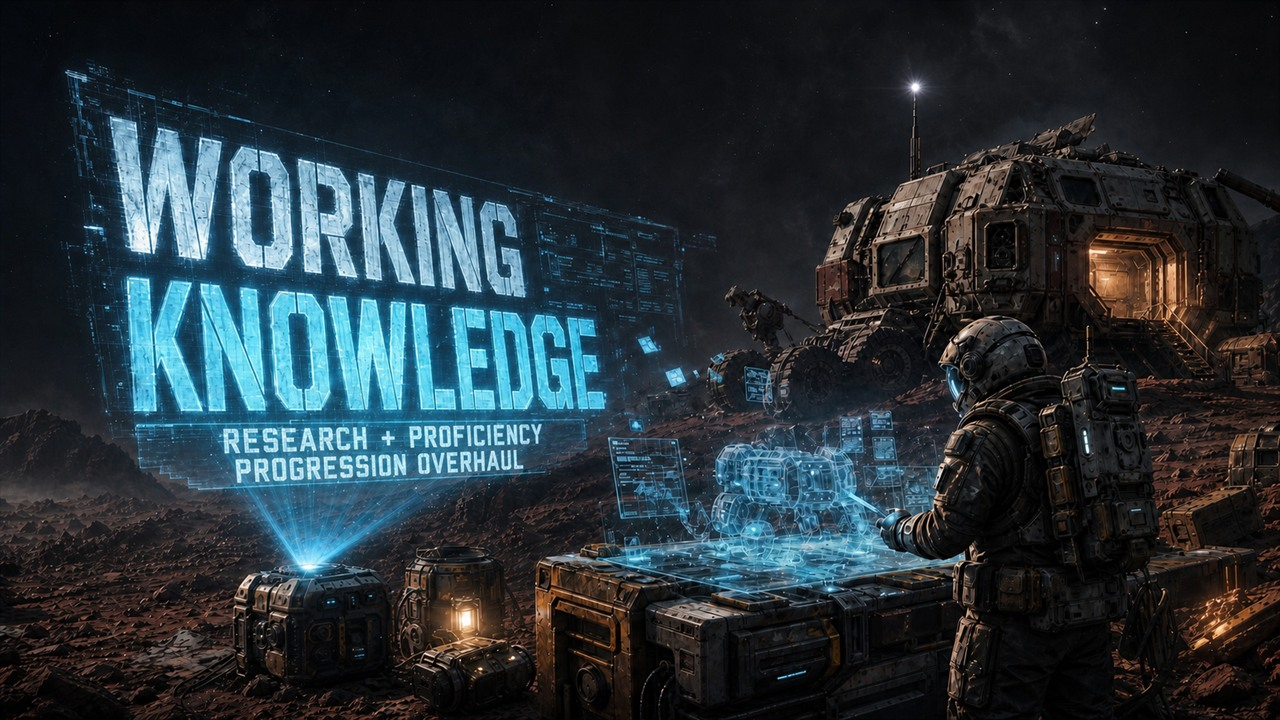
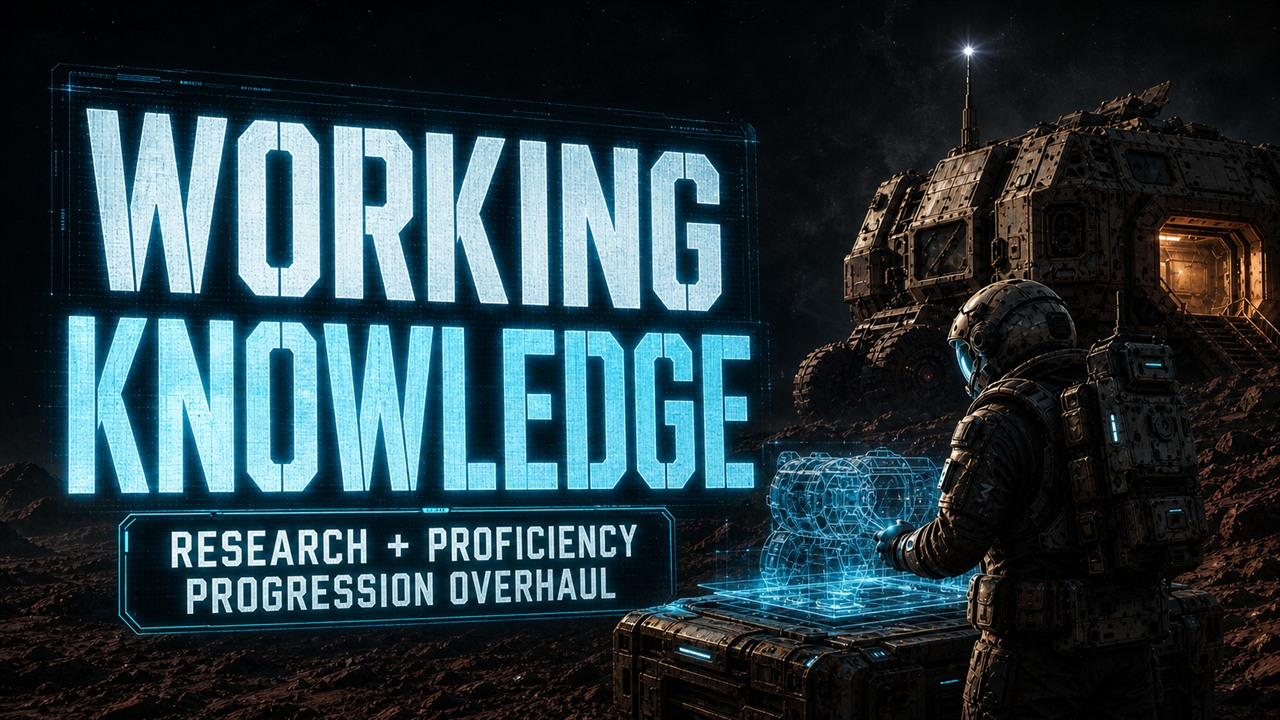
art: improve thumbnail card readability

diff --git a/docs/WorkingKnowledge/changelog.md b/docs/WorkingKnowledge/changelog.md
@@ -27,7 +27,7 @@ Kept complete vanilla variant sets in one schematic family. In particular, the S
 
 Regenerated vanilla research bindings, hidden unlockers, exact Data Schematics, the runtime catalog, block-variant overrides, radial-menu data, and balance audits from the current 1.210 game definitions.
 
-Replaced the Workshop thumbnail with cohesive field-engineering key art. The title is now an in-world holographic research projection instead of a flat text panel, with a compact integrated descriptor identifying the mod as a Research and Proficiency progression overhaul. The simpler composition is designed to remain recognizable at Workshop-card size.
+Replaced the Workshop thumbnail with cohesive field-engineering key art. The title is now an in-world holographic research projection instead of a flat text panel, with a compact integrated descriptor identifying the mod as a Research and Proficiency progression overhaul. A card-first recomposition enlarges the title, isolates the descriptor, and simplifies the engineer and habitat silhouette so the mod remains recognizable and readable at Workshop browsing size.
 
 ## 0.13.0 - Extensible Schematic Groups
 
